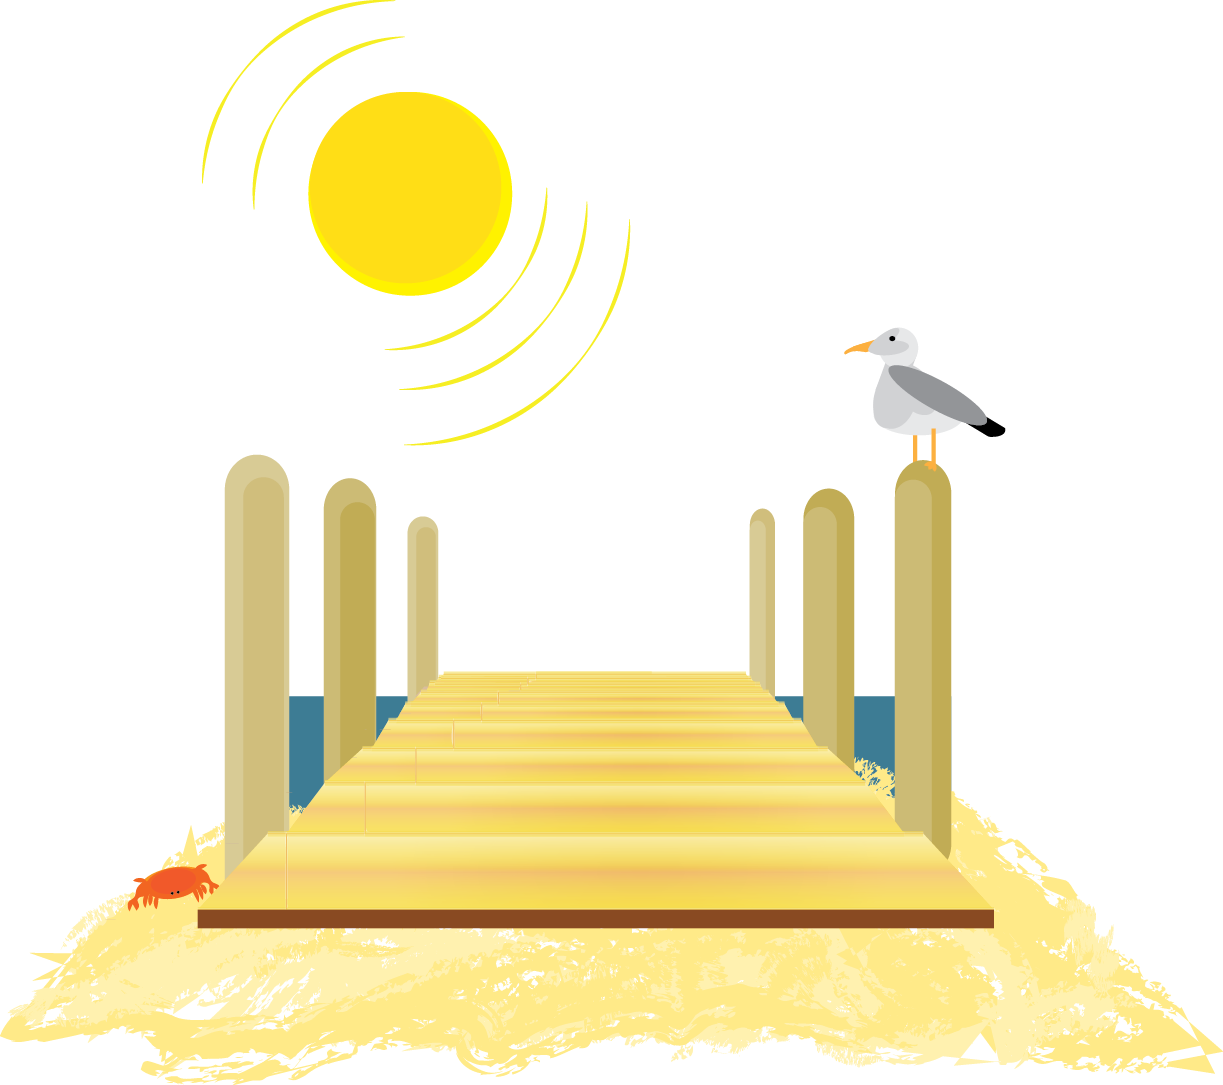
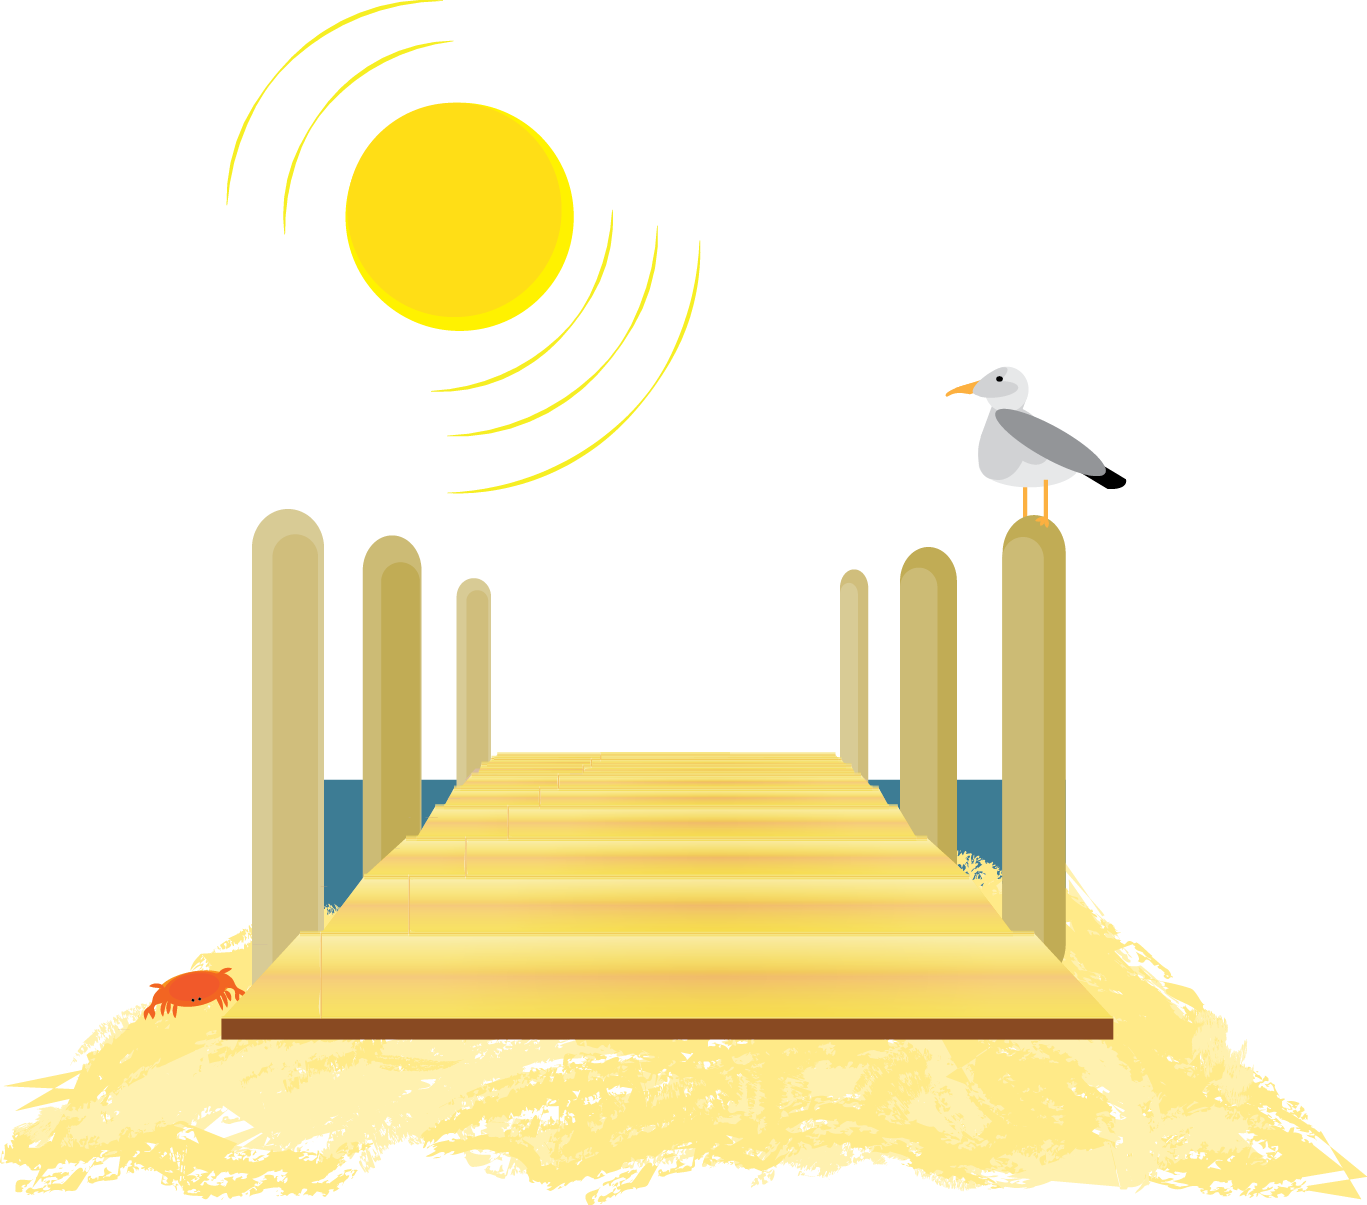
Fixed image loading problem (new images had lowercase extensions) -- Consolidated Request Mapping get methods in ImageController -- Improved aboutme-section layout -- Resized dock image

diff --git a/src/main/webapp/main-styles.css b/src/main/webapp/main-styles.css
@@ -10,14 +10,13 @@ html{
 }
 
 /*Fix border-radius for buttons*/
-/*Intro-Section -----------------------------------------------------------------------------------------------------*/
+/*Main-Menu -----------------------------------------------------------------------------------------------------*/
 .button{
     display: block;
     position: fixed;
     height: 45%;
     width: 45%;
     border-radius: 50%;
-    z-index: 1;
 }
 
 .button:hover{
@@ -31,7 +30,6 @@ html{
     transform: translate(-50%, -50%);
     height: 600px;
     width: 600px;
-    z-index: -1;
 }
 
 #person-icon{
@@ -57,20 +55,13 @@ html{
 }
 
 /*AboutMe-Section ---------------------------------------------------------------------------------------------------*/
-#aboutme-section{
-    position: relative;
-    margin: 0 auto;
-    width: 80%;
-}
 
 #aboutme-content{
     display: block;
     position: relative;
-    top: -20px;
+    top: -5vh;
     margin: 0 auto;
-    padding: 5%;
-    width: 65%;
-    z-index: -1;
+    width: 75%;
     background: #f3f3f3;
     border-left-style: solid;
     border-right-style: solid;
@@ -78,10 +69,19 @@ html{
     border-width: 0.25vw;
 }
 
+#main-content{
+    display: block;
+    position: relative;
+    top: 10vh;
+    margin: auto auto;
+    height: 105vh;
+    width: 90%;
+}
+
 .paragraph, #header{
     display: block;
     position: relative;
-    top: 10%;
+    top: 12.5vh;
     font-size: 1.2em;
     color: grey;
 }
@@ -94,14 +94,10 @@ html{
 #contact-bar{
     display: block;
     position: relative;
-    top: 0;
-    left: -4vw;
-    height: 50%;
+    margin-top: 20vh;
+    margin: 0 auto;
     width: 100%;
-    border-left-style: solid;
-    border-right-style: solid;
-    border-color: #7392ff;
-    border-width: 4vw;
+    height: auto;
     background: #7392ff;
 }
 
@@ -122,12 +118,12 @@ html{
 }
 
 #contact-header{
-    height: 8vw;
+    height: 5vh;
     font-size: 5vw;
     color: #f3f3f3;
 }
 
-/*TODO: Figure out what element is overtop of everything. Add bottom padding to main-section. Style spans.*/
+/*TODO: Style spans.*/
 
 /*Tools-Section -----------------------------------------------------------------------------------------------------*/
 #tools-table{
@@ -150,7 +146,7 @@ html{
 }
 
 .tools-header{
-    height: 5vw;
+    height: 5vh;
     font-size: 8vw;
 }
 
@@ -174,7 +170,6 @@ html{
     transform: translate(-50%, -50%);
     height: 90%;
     width: 90%;
-    z-index: -2;
     overflow: hidden;
 }
 
@@ -184,7 +179,7 @@ html{
 
 .tile{
     position: absolute;
-    top: 2vw;
+    top: 2vh;
     left: 5vw;
     height: 20vw;
     width: 20vw;
@@ -287,6 +282,10 @@ html{
 .door{
     width: 90%;
     transition: all 0.5s ease;
+}
+
+#dock{
+    width: 110%;
 }
 
 .door:hover{

diff --git a/src/main/webapp/main.html b/src/main/webapp/main.html
@@ -24,13 +24,15 @@
 
     <div class = "container" id = "aboutme-section">
         <div class = "content" id = "aboutme-content">
-            <h2 id = "header">I'm sort of new at this...</h2>
 
-            <div id = "main-section">
+            <section id = "main-content">
+                <header>
+                    <h2 id = "header">I'm sort of new at this...</h2>
+                </header>
                 <p class = "paragraph" id = "para-1">
                     So right before I graduated college I told myself that by 2016 I'd be calling Australia home,
                     working for some renewable energy company on the weekdays, enjoying the Gold Coast on the weekends,
-                    and melting to the the distinct sound of Aussie accents......<span>HA!</span>Considering that I'm typing this from
+                    and melting to the the distinct sound of Aussie accents......<span>HA!</span> Considering that I'm typing this from
                     the bedroom I grew up in, I think that I may have really screwed up somewhere. Well actually, that's
                     what <span>you</span> would be thinking. Rather than compare my current situation to that ambitious *cough* and silly
                     *cough* 'promise' I made to myself a couple of years ago, instead I think of it as if nature took my hand,
@@ -61,7 +63,7 @@
                     to start becoming familiar with the more nuanced concepts, whether that be for a
                     game company or anywhere else.
                 </p>
-            </div>
+            </section>
 
             <div id = "contact-bar">
                 <table class = "table" id = "contact-table">

diff --git a/src/main/webapp/port-jeff/port-jeff-behavior.js b/src/main/webapp/port-jeff/port-jeff-behavior.js
@@ -1,6 +1,7 @@
 $(document).ready(function() {
+    console.log("Here");
     document.domain = "localhost";
-    var url = "http://localhost:8080/port-jeff-album/";
+    var url = "http://localhost:8080/images/port-jeff-album/";
     console.log($.ajax());
 
     $.getJSON(url, function(data){
@@ -17,25 +18,7 @@ $(document).ready(function() {
       }).appendTo( "body" );
     });
 
-    if (Galleria) {
-        Galleria.loadTheme('../galleria/themes/classic/galleria.classic.min.js');
-        Galleria.run('.galleria');
-        Galleria.configure({
-            thumbnails: 'lazy',
-            responsive: true,
-            trueFullscreen: true,
-            });
 
-        Galleria.ready(function() {
-            this.attachKeyboard({
-            left: this.prev,
-            right: this.next
-            });
-        });
-
-    } else {
-        console.log("The Galleria App could not be found.");
-    }
 });
 
 //TODO: Find out why images aren't loading

diff --git a/src/main/webapp/port-jeff/port-jeff-album.html b/src/main/webapp/port-jeff/port-jeff-album.html
@@ -6,10 +6,9 @@
 	<title>Port Jefferson Album</title>
 	<meta charset="utf-8"/>
 
-	<!-- Load Resource Libraries (JQuery, Galleria, Font-Awesome)-->
+	<!-- Load Resource Libraries (JQuery and Galleria)-->
 	<script src="http://code.jquery.com/jquery-1.12.1.min.js"></script>
 	<script src = "../galleria/galleria-1.4.2.min.js"></script>
-	<link rel="stylesheet" href="https://maxcdn.bootstrapcdn.com/font-awesome/4.5.0/css/font-awesome.min.css"/>
 
 	<!-- Load JS and CSS -->
 	<script type = "text/javascript" src = "port-jeff-behavior.js"></script>

diff --git a/src/main/webapp/restaurant/restaurant-album.html b/src/main/webapp/restaurant/restaurant-album.html
@@ -6,10 +6,9 @@
 	<title>Restaurant Page</title>
 	<meta charset="utf-8"/>
 
-	<!-- Load Resource Libraries (JQuery, Galleria, Font-Awesome)-->
+	<!-- Load Resource Libraries (JQuery and Galleria)-->
 	<script src="http://code.jquery.com/jquery-1.12.1.min.js"></script>
 	<script src = "../galleria/galleria-1.4.2.min.js"></script>
-	<link rel="stylesheet" href="https://maxcdn.bootstrapcdn.com/font-awesome/4.5.0/css/font-awesome.min.css"/>
 
 	<!-- Load JS and CSS -->
 	<script type = "text/javascript" src = "restaurant-behavior.js"></script>

diff --git a/src/main/webapp/nature/nature-album.html b/src/main/webapp/nature/nature-album.html
@@ -6,10 +6,9 @@
 	<title>Nature Album</title>
 	<meta charset="utf-8"/>
 
-	<!-- Load Resource Libraries (JQuery, Galleria, Font-Awesome)-->
+	<!-- Load Resource Libraries (JQuery and Galleriae)-->
 	<script src="http://code.jquery.com/jquery-1.12.1.min.js"></script>
 	<script src = "../galleria/galleria-1.4.2.min.js"></script>
-	<link rel="stylesheet" href="https://maxcdn.bootstrapcdn.com/font-awesome/4.5.0/css/font-awesome.min.css"/>
 
 	<!-- Load JS and CSS -->
 	<script type = "text/javascript" src = "nature-behavior.js"></script>

diff --git a/src/main/java/com/photography/website/ImageController.java b/src/main/java/com/photography/website/ImageController.java
@@ -27,56 +27,12 @@ public class ImageController {
      *
      * @return a JSON string
      */
-    @RequestMapping("/port-jeff-album")
+    @RequestMapping("/images/{path}")
     @ResponseBody
-    String getPortJeffImages() {
+    String getAlbumImages(@PathVariable String path) {
 
         // Set resource path and create Image list
-        String imgDirectory = "/media/reclaimer/shared/software-development/photography-website/src/main/webapp/resources/images/port-jeff-album";
-        ArrayList<Image> files = listImageFiles(imgDirectory);
-        //System.out.println(imgDirectory);
-
-        JSONObject JsonObj = new JSONObject(); // Initialize and instantiate JSON object
-        JsonObj.put("images", convertToJSON(files)); // Convert Image files to JSON object and add to JSON object as 'images'
-        //System.out.println(JsonObj);
-
-        return JsonObj.toString();
-    }
-
-     /**
-     * Processes a request to specific url sub-directory
-     *
-     * @return a JSON string
-     */
-
-    @CrossOrigin(origins = "http://localhost:9000")
-    @RequestMapping("/nature-album")
-    @ResponseBody
-    String getNatureImages() {
-
-        // Set resource path and create Image list
-        String imgDirectory = "/media/reclaimer/shared/software-development/photography-website/src/main/webapp/resources/images/nature-album/big";
-        ArrayList<Image> files = listImageFiles(imgDirectory);
-        //System.out.println(imgDirectory);
-
-        JSONObject JsonObj = new JSONObject(); // Initialize and instantiate JSON object
-        JsonObj.put("images", convertToJSON(files)); // Convert Image files to JSON object and add to JSON object as 'images'
-        //System.out.println(JsonObj);
-
-        return JsonObj.toString();
-    }
-
-    /**
-     * Processes a request to specific url sub-directory
-     *
-     * @return a JSON string
-     */
-    @RequestMapping("/restaurant-album")
-    @ResponseBody
-    String getRestaurantImages() {
-
-        // Set resource path and create Image list
-        String imgDirectory = "/media/reclaimer/shared/software-development/photography-website/src/main/webapp/resources/images/restaurant-album";
+        String imgDirectory = "/media/reclaimer/shared/software-development/photography-website/src/main/webapp/resources/images/" + path;
         ArrayList<Image> files = listImageFiles(imgDirectory);
         //System.out.println(imgDirectory);
 
@@ -90,39 +46,20 @@ public class ImageController {
     // Request Mapping for specific images ---------------------------------------------------------------------------
 
     /**
-     * Handles particular image request for church album
+     * Handles particular image request for album
      *
      * @param id The requested image
      * @return byte code representation of Image object
      * @throws IOException if resource is of invalid type
      */
     //@CrossOrigin(origins = "http://localhost:9000")
-    @RequestMapping("/port-jeff-album/{id}")
-    ResponseEntity<byte[]> getPortJeffImages(@PathVariable String id) throws IOException {
+    @RequestMapping("/images/{path}/{id}")
+    ResponseEntity<byte[]> getAlbumImageByID(@PathVariable String path, @PathVariable String id) throws IOException {
         // Set requested image as InputStream
-        InputStream in = servletContext.getResourceAsStream("/resources/images/port-jeff-album/" + id + ".JPG");
+        System.out.println(path);
+        InputStream in = servletContext.getResourceAsStream("/resources/images/" + path + "/" + id + ".jpg");
 
         // Initialize and instantiate HttpHeader object and set content type as JPEG
-        final HttpHeaders headers = new HttpHeaders();
-        headers.setContentType(MediaType.IMAGE_JPEG);
-
-        return new ResponseEntity<byte[]>(org.apache.commons.io.IOUtils.toByteArray(in), headers, HttpStatus.CREATED);
-    }
-    @CrossOrigin(origins = "http://localhost:9000")
-    @RequestMapping("/nature-album/big/{id}")
-    ResponseEntity<byte[]> getNatureImages(@PathVariable String id) throws IOException {
-        InputStream in = servletContext.getResourceAsStream("/resources/images/nature-album/big" + id + ".JPG");
-
-        final HttpHeaders headers = new HttpHeaders();
-        headers.setContentType(MediaType.IMAGE_JPEG);
-
-        return new ResponseEntity<byte[]>(org.apache.commons.io.IOUtils.toByteArray(in), headers, HttpStatus.CREATED);
-    }
-
-    @RequestMapping("/restaurant-album/{id}")
-    ResponseEntity<byte[]> getRestaurantImages(@PathVariable String id) throws IOException {
-        InputStream in = servletContext.getResourceAsStream("/resources/images/restaurant-album/" + id + ".JPG");
-
         final HttpHeaders headers = new HttpHeaders();
         headers.setContentType(MediaType.IMAGE_JPEG);
 

diff --git a/src/main/java/com/photography/website/App.java b/src/main/java/com/photography/website/App.java
@@ -20,7 +20,7 @@ public class App {
         return new WebMvcConfigurerAdapter() {
             @Override
             public void addCorsMappings(CorsRegistry registry) {
-                registry.addMapping("*").allowedOrigins("http://localhost:9000");
+                registry.addMapping("/").allowedOrigins("http://localhost:9000");
             }
         };
     }
